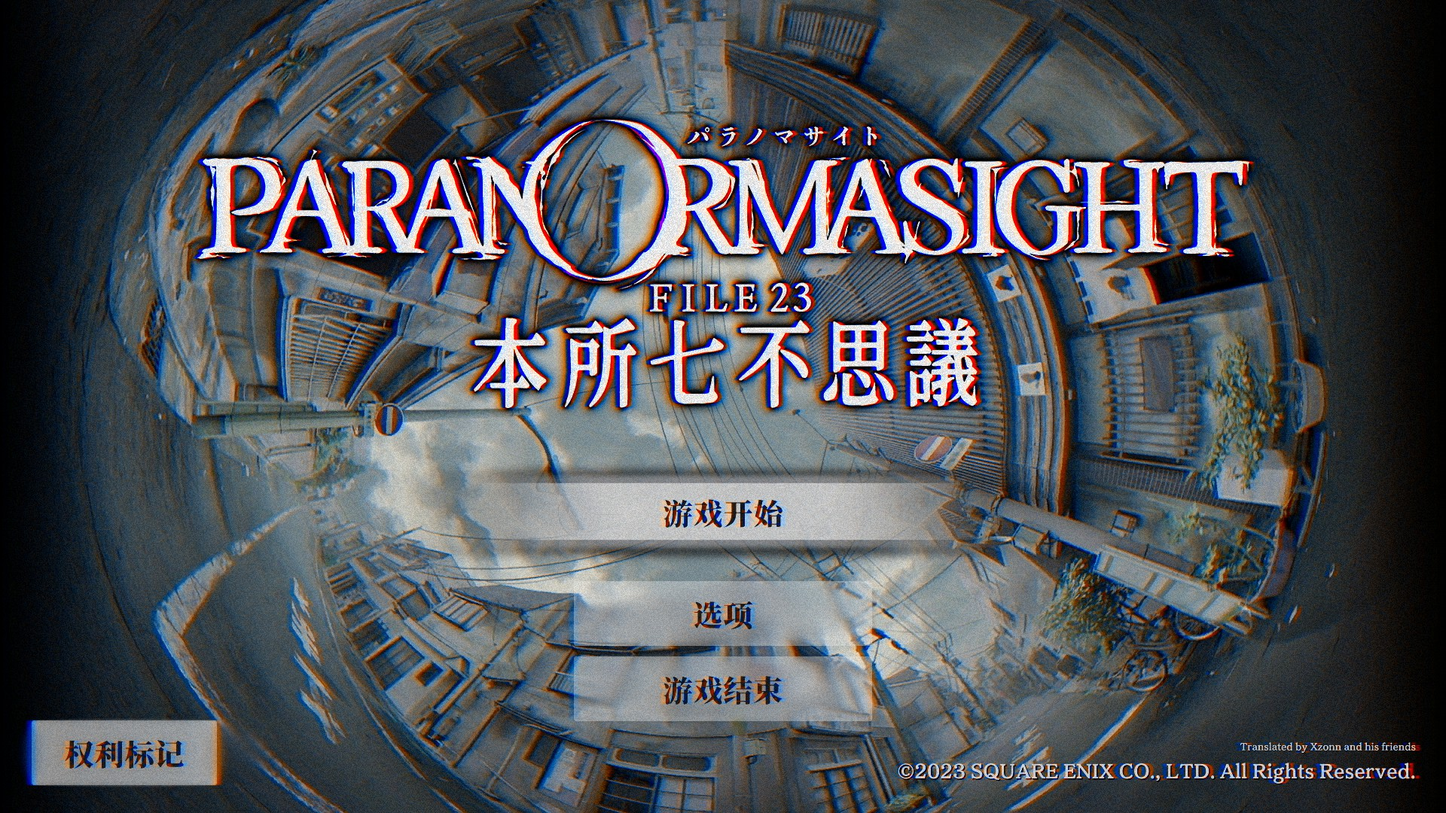
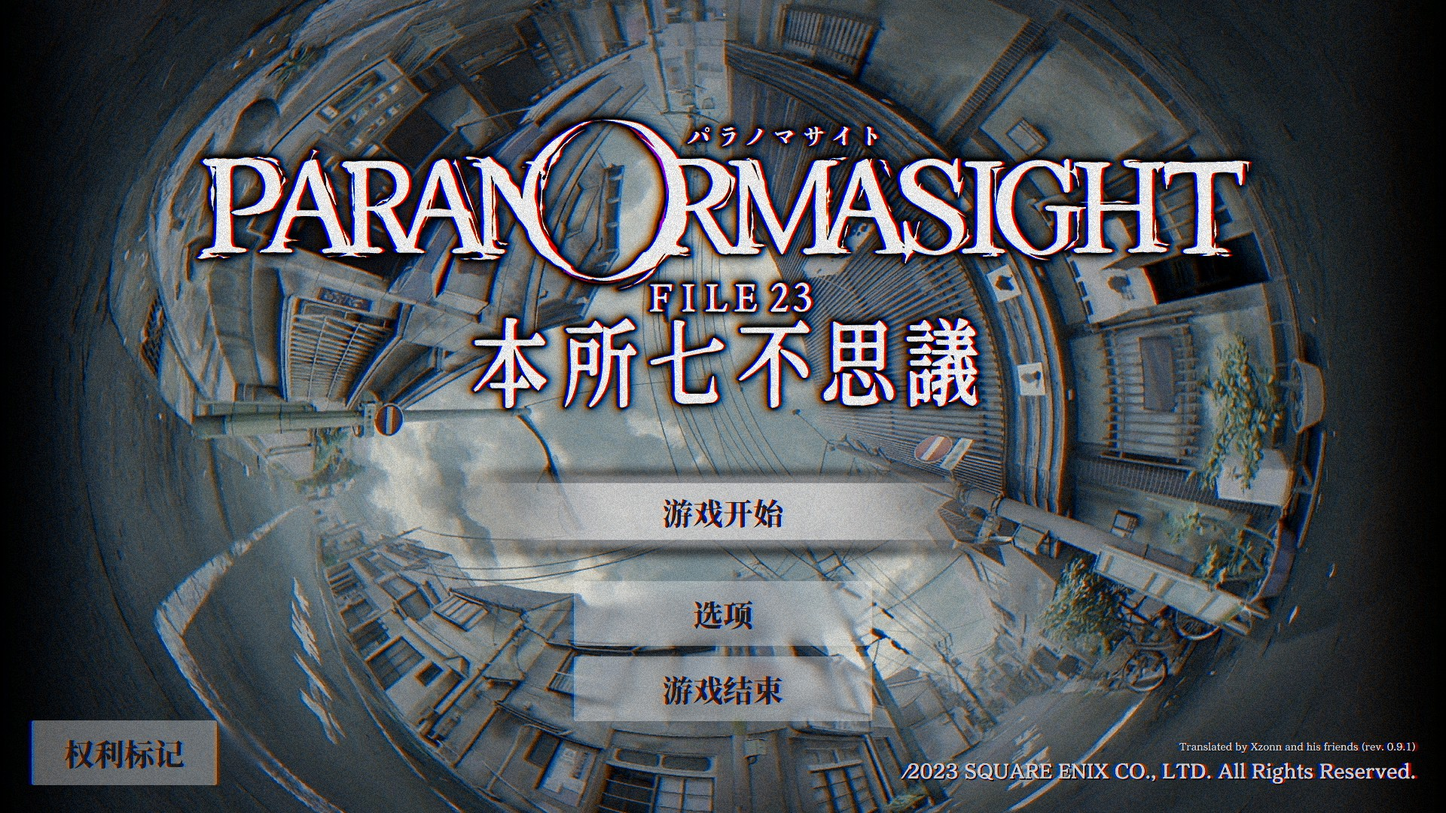
Update screenshot and README

diff --git a/README.md b/README.md
@@ -7,18 +7,21 @@
 
 本补丁基于 Steam 版制作，理论上可用于其他平台版本，但未经测试。
 
+## 更新历史
+- 0.9.1（2023-06-20）：
+  - 游戏中需要输入名字的地方现在可以识别简体中文和拼音。**注意：由于存储空间的原因，使用补丁后输入假名会被视为错误答案，可改用日文汉字或罗马音输入。**
+  - 在标题页面新增了版本号标识。
+
 ## 使用方式
-请分别下载字体补丁（`patch-font.zip`）和文本补丁（`patch-text.zip`），然后将补丁中的文件解压到游戏文件夹，并覆盖对应的文件。如果应用补丁时未提示覆盖文件夹，请确认补丁解压的位置是否正确。在游戏中需要选择“日语”作为语言。
+请下载补丁，然后将补丁中的文件解压到游戏文件夹，并覆盖对应的文件。若为开发版本，请分别下载字体补丁（`patch-font.zip`）和文本补丁（`patch-text.zip`）。如果应用补丁时未提示覆盖文件夹，请确认补丁解压的位置是否正确。在游戏中需要选择“日语”作为语言。
 
 ## 相关链接
-- **[>>> 字体补丁下载地址 <<<](https://github.com/Xzonn/ParanormasightChsLocalization/releases/download/publish/patch-font.zip)**
-- **[>>> 文本补丁下载地址 <<<](https://github.com/Xzonn/ParanormasightChsLocalization/releases/download/publish/patch-text.zip)**
+- **[>>> 0.9.1 版本补丁下载地址 <<<](https://github.com/Xzonn/ParanormasightChsLocalization/releases/download/0.9.1/patch-0.9.1.zip)**
+- [开发版本补丁下载](https://github.com/Xzonn/ParanormasightChsLocalization/releases/tag/publish)
 - [补丁生成工具](https://github.com/Xzonn/ParanormasightChsLocalizationHelper)
 - [翻译项目网站](https://weblate.xzonn.top/projects/paranormasight/)
 
 ## 截图预览
-![截图](images/screenshot-01.jpg)
-
-![截图](images/screenshot-02.jpg)
-
+![截图](images/screenshot-01.jpg)  
+![截图](images/screenshot-02.jpg)  
 ![截图](images/screenshot-03.jpg)
